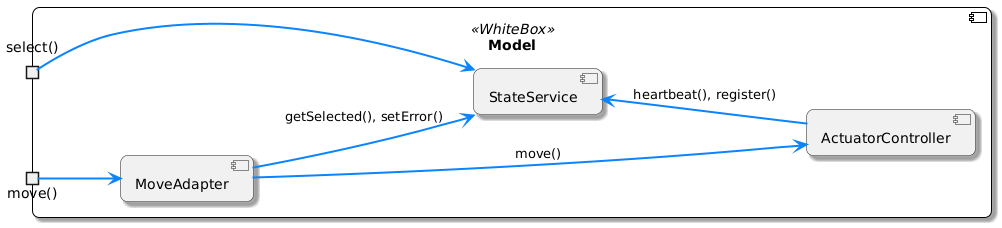
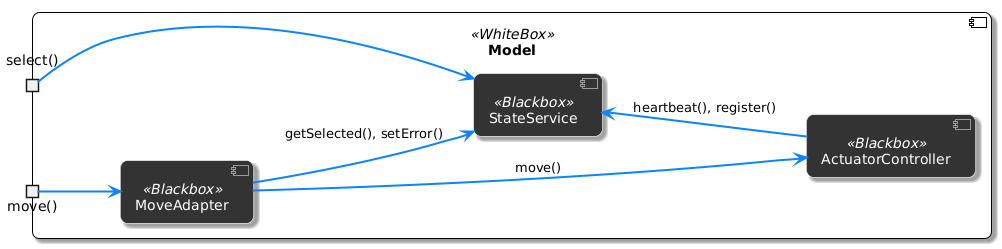
updated 4,5,6,7 Co-authored-by: David <DavidDao1997@users.noreply.github.com>

diff --git a/Docs/Application/bausteinsicht.tex b/Docs/Application/bausteinsicht.tex
@@ -8,7 +8,7 @@ Die zur Zerlegung benutzte Dekompistionsstrategie ist funktional.
 
 \begin{figure}[h] % [h] = here
     \centering
-    \includegraphics[width=0.6\textwidth]{diagrams/bausteinsicht_lvl_1_system_name_change.png}
+    \includegraphics[width=0.6\textwidth]{diagrams/baustein_lvl_1_updated.png}
     \caption{Bausteinsicht Level 1}
 \end{figure}
 
@@ -17,7 +17,7 @@ Die zur Zerlegung benutzte Dekompistionsstrategie ist funktional.
 \begin{tabular}{|p{4cm}|p{9cm}|}
 \hline
 \textbf{Komponente} & \textbf{Beschreibung} \\ \hline
-Robotic System & Gesamtsystem, das alle internen Steuer-, Safety- und Kommunikationsfunktionen kapselt. Empfängt Bedien-/Steuerbefehle vom Benutzer, verarbeitet sie und liefert Feedback. \\ \hline
+Roboter-System & Gesamtsystem, das alle internen Steuer-, Safety- und Kommunikationsfunktionen kapselt. Empfängt Bedien-/Steuerbefehle vom Benutzer, verarbeitet sie und liefert Feedback. \\ \hline
 \end{tabular}
 \caption{Bausteinsicht Level 1}
 \label{tab:lvl1}
@@ -36,19 +36,20 @@ Robotic System & Gesamtsystem, das alle internen Steuer-, Safety- und Kommunikat
 \begin{tabular}{|p{4cm}|p{9cm}|}
 \hline
 \textbf{Komponente} & \textbf{Beschreibung} \\ \hline
-GUI-Software (ITS) & Bietet die Benutzeroberfläche, nimmt Steuerbefehle entgegen, zeigt den Zustand des ausgewählten Roboters an und leitet Befehle an die Roboter-Software weiter. \\ \hline
-Roboter-Software (RS) & Führt Bewegungs- und Greifbefehle aus, steuert Hardware, registriert sich bei der GUI-Software und sendet Statusmeldungen zurück. \\ \hline
+Model & Beinhält die Geschäftslogik. Sendet Zustandsänderungen an den Controller. \\ \hline
+Controller & Der Controller fungiert als Observer vom Model und gibt Zustandsänderungen des Models an die View weiter. \\ \hline
+View & Bietet Interaktionsmöglichkeiten für den Nutzer und stellt dem Benutzer Informationen dar. 
 \end{tabular}
 \caption{Bausteinsicht Level 2}
 \label{tab:lvl2}
 \end{table}
 \newpage
 
-\section{Bausteinsicht Level 3}
+\section{Bausteinsicht Level 3 Model}
 \begin{figure}[h] % [h] = here
     \centering
-    \includegraphics[width=0.6\textwidth]{diagrams/baustein_lvl_3.png}
-    \caption{Bausteinsicht Level 3}
+    \includegraphics[width=0.6\textwidth]{diagrams/baustein_lvl_3_model.png}
+    \caption{Bausteinsicht Level 3 Model}
 \end{figure}
 
 \begin{table}[h!]
@@ -56,14 +57,29 @@ Roboter-Software (RS) & Führt Bewegungs- und Greifbefehle aus, steuert Hardware
 \begin{tabular}{|p{4cm}|p{9cm}|}
 \hline
 \textbf{Komponente} & \textbf{Beschreibung} \\ \hline
-GUI & Frontend zur Eingabe von Befehlen und Anzeige von Status-/Fehlermeldungen. \\ \hline
-IO  & Schnittstelle für Ein-/Ausgabegeräte; leitet Steuerbefehle an die Roboter-API und empfängt Rückmeldungen. \\ \hline
-Registrierungsservice & Authentifiziert und registriert Roboter-Software-Instanzen bei der GUI-Software. \\ \hline
-Watchdog & Überwacht Laufzeit- und Funktionsfähigkeit der GUI-Software; löst Neustarts bei Fehlern aus. \\ \hline
-Roboter-API & Abstraktionsschicht zur physischen Roboterhardware; stellt Bewegungs- und Sensorbefehle bereit. \\ \hline
-Heartbeat & Sendet periodische Lebenszeichen der Roboter-Software an die GUI-Software zur Überwachungszwecken. \\ \hline
+StateService & Speichert den  ausgewählten und die verfügbaren Roboter. Bei Zustandsänderungen informiert er den Controller. \\ \hline
+MoveAdapter  & Empängt einen Steuerungsbefehl vom View übersetzt den mithilfe des Stateservices, um den passenden Aktuator anzusprechen. \\ \hline
+ActuatorController & Empfängt einen Steuerwert, überprüft die Gültigkeit und setzt diesen mithilfe der ICadsRoboticArm API. \\ \hline
 \end{tabular}
 \caption{Bausteinsicht Level 3}
 \label{tab:lvl3}
 \end{table}
 
+\section{Bausteinsicht Level 3 View}
+\begin{figure}[h] % [h] = here
+    \centering
+    \includegraphics[width=0.6\textwidth]{diagrams/baustein_lvl_3_view.png}
+    \caption{Bausteinsicht Level 3 View}
+\end{figure}
+
+\begin{table}[h!]
+\centering
+\begin{tabular}{|p{4cm}|p{9cm}|}
+\hline
+\textbf{Komponente} & \textbf{Beschreibung} \\ \hline
+IO & Leitet die Eimgaben des Benutzers an den MoveAdapter weiter. \\ \hline
+UI  & Stellt dem Nutzer dar welche Roboter verfügbar sind, welcher ausgewählt ist und informiert über Fehler.\\ \hline
+\end{tabular}
+\caption{Bausteinsicht Level 3}
+\label{tab:lvl3}
+\end{table}

diff --git a/Docs/Application/loesungsstrategie.tex b/Docs/Application/loesungsstrategie.tex
@@ -14,8 +14,6 @@ Der Controller speichert keine Zustände und sendet keine Eingaben von der View 
         \hline
         void update(AvailableRobots: String[], SelectedRobotIdx: int, Error: bool, Confirmation: bool) & Modell hat Änderungen & Benachrichtigt den Controller, der die View aktualisiert. \\
         \hline
-        void updateView(AvailableRobots: String[], SelectedRobotIdx: int, Error: bool, Confirmation: bool) & Gültige Modell-Daten vorhanden & Aktualisiert die View mit den neuesten Daten und Fehlerstatus. \\
-        \hline
     \end{tabular}
     \caption{Funktionen des Controllers}
     \label{tab:Controller}
@@ -29,7 +27,7 @@ Der Controller speichert keine Zustände und sendet keine Eingaben von der View 
         \hline
         \textbf{Funktion} & \textbf{Voraussetzung} & \textbf{Semantik} \\
         \hline
-        ActuatorControlWrapper(Host: String, Port: int, Actuator: String) & Gültige Netzwerkverbindung; Aktuator A1–A4 & Initialisiert Roboterarm mit Host, Port und Aktuator. \\
+        ActuatorControlWrapper(Host: String, Port: int, Actuator: String) & Gültige Netzwerkverbindung & Initialisiert ein Aktuator mit Host, Port. \\
         \hline
         Void move(Enum Robotdirection) & Verbindung zwischen IO und MoveAdapter besteht &  Gibt an in welche Richtung sich der Roboter bewegen soll. \\
         \hline

diff --git a/Docs/Application/laufzeitsicht.tex b/Docs/Application/laufzeitsicht.tex
@@ -6,7 +6,7 @@
 
 \begin{figure}[h]
     \centering
-    \includegraphics[width=0.8\linewidth]{diagrams/roboterAuswahl_250525.png}
+    \includegraphics[width=0.8\linewidth]{diagrams/selectBefehl250625.png}
     \caption{Auswahl des Roboters}
     \label{fig:Auswahl}
 \end{figure}
@@ -17,7 +17,7 @@
 
 \begin{figure}[h]  
     \centering
-    \includegraphics[width=0.8\linewidth]{diagrams/moveBefehl_250525.png}
+    \includegraphics[width=0.8\linewidth]{diagrams/moveBefehl250625.png}
     \caption{Bewegungsbefehl über GUI}
     \label{fig:Bewegungsbefehl}
 \end{figure}

diff --git a/Docs/Application/verteilungssicht.tex b/Docs/Application/verteilungssicht.tex
@@ -2,7 +2,7 @@
 
 \begin{figure}[h!]
 	\centering
-	\includegraphics[scale=.5]{diagrams/deployment_prod.png}
+	\includegraphics[scale=.5]{diagrams/deploymentView.png}
 	\caption{Deployment Diagramm (Produtiv)}
 	\label{fig:deployment-prod-grafik}
 \end{figure}
